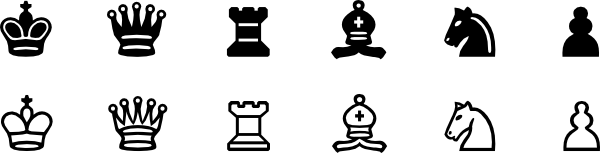
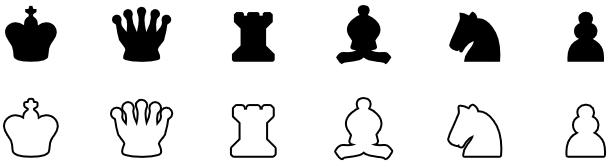
chess is becoming beautiful

diff --git a/src/Board.java b/src/Board.java
@@ -8,7 +8,7 @@ import javax.swing.JOptionPane;
 
 public class Board 
 {	
-	BufferedImage boardImage;
+	static BufferedImage boardImage;
 	Piece[][] board;
 	Play boardPlay;
 	int[] reflectNumbers = {0,1,2,3,4,5,6,7};
@@ -353,6 +353,7 @@ public class Board
 		}		
 		initializeMoves(true);
 		initializeMoves(false);
+		initializeImages();
 	}
 	
 	public void initializeImages()
@@ -574,21 +575,9 @@ public class Board
 
 				if(!isEmpty(x,y))
 				{
-					if((board[x][y].isWhite())&&((!dragging)||(x1!=x)||(y1!=y)))
-
-					{
-						g.setColor(Color.WHITE);
-						g.fillOval(xSpacing+tileSize*1/4-(tileSize*1/8), ySpacing+tileSize*1/4-(tileSize*1/8), tileSize*3/4, tileSize*3/4);
-						g.setColor(Color.BLACK);
-					}
-					else if((!board[x][y].isWhite())&&((!dragging)||(x1!=x)||(y1!=y)))
-					{
-						g.setColor(Color.BLACK);
-						g.fillOval(xSpacing+tileSize*1/4-(tileSize*1/8), ySpacing+tileSize*1/4-(tileSize*1/8), tileSize*3/4, tileSize*3/4);
-						g.setColor(Color.WHITE);
-					}
+				
 					 ((Graphics2D) g).drawImage(board[x][y].getImage(), xSpacing, ySpacing, boardPlay);
-					g.drawString(""+board[x][y].getPieceType().charAt(0), xSpacing+tileSize/2, ySpacing+tileSize/2);
+//					g.drawString(""+board[x][y].getPieceType().charAt(0), xSpacing+tileSize/2, ySpacing+tileSize/2);
 				}
 
 				//				else if(isEmpty(x,y))
@@ -644,13 +633,13 @@ public class Board
 		if(checkmate())
 		{
 			g.setColor(new Color(255, 0, 0,125));
-			g.fillRect(0, 0, (tileSize+1)*8, (tileSize+1)*8);
+			g.fillRect(0, 0, (getTileSize()+1)*8 + getBoarder()*2,(getTileSize()+1)*8+22+getBoarder()*2);
 		}
 		
 		else if (inCheck(false) || inCheck(true))
 		{
 			g.setColor(new Color(255, 0, 0,50));
-			g.fillRect(0, 0, (tileSize+1)*8, (tileSize+1)*8);
+			g.fillRect(0, 0, (getTileSize()+1)*8 + getBoarder()*2,(getTileSize()+1)*8+22+getBoarder()*2);
 		}
 		}
 		

diff --git a/src/Piece.java b/src/Piece.java
@@ -14,6 +14,8 @@ public class Piece
 	String pieceType;
 	int xCord;
 	int yCord;
+	int xSpacing = 56;
+	int ySpacing = 4;
 	boolean[][] canMove = new boolean[8][8];
 	boolean isKing = false;
 	boolean isPawn = false;
@@ -61,7 +63,10 @@ public class Piece
 	
 	public void setImage()
 	{
+		pieceImage = Board.boardImage;
 		
+		if(white)
+			ySpacing = 92;
 	}
 
 	public BufferedImage getImage()

diff --git a/src/QueenPiece.java b/src/QueenPiece.java
@@ -16,7 +16,9 @@ public class QueenPiece extends Piece{
 	
 	public void setImage()
 	{
-		pieceImage = pieceImage.getSubimage(0, 0, 70, 70);
+		super.setImage();
+		
+		pieceImage = pieceImage.getSubimage(xSpacing*2, ySpacing, 70, 70);
 	}
 	
 }

diff --git a/src/PawnPiece.java b/src/PawnPiece.java
@@ -41,7 +41,8 @@ public class PawnPiece extends Piece
 	
 	public void setImage()
 	{
-		pieceImage = pieceImage.getSubimage(0, 0, 70, 70);
+		super.setImage();
+		pieceImage = pieceImage.getSubimage(xSpacing*10-20, ySpacing, 70, 70);
 	}
 	
 }

diff --git a/src/KnightPiece.java b/src/KnightPiece.java
@@ -48,7 +48,8 @@ public class KnightPiece extends Piece{
 	
 	public void setImage()
 	{
-		pieceImage = pieceImage.getSubimage(0, 0, 70, 70);
+		super.setImage();
+		pieceImage = pieceImage.getSubimage(xSpacing*8, ySpacing, 70, 70);
 	}
 	
 }

diff --git a/src/BishopPiece.java b/src/BishopPiece.java
@@ -17,7 +17,8 @@ public class BishopPiece extends Piece
 	
 	public void setImage()
 	{
-		pieceImage = pieceImage.getSubimage(0, 0, 70, 70);
+		super.setImage();
+		pieceImage = pieceImage.getSubimage(xSpacing*6, ySpacing, 70, 70);
 	}
 	
 }

diff --git a/src/RookPiece.java b/src/RookPiece.java
@@ -16,7 +16,8 @@ public class RookPiece extends Piece
 	
 	public void setImage()
 	{
-		pieceImage = pieceImage.getSubimage(0, 0, 70, 70);
+		super.setImage();
+		pieceImage = pieceImage.getSubimage(xSpacing*4, ySpacing, 70, 70);
 	}
 	
 }

diff --git a/src/KingPiece.java b/src/KingPiece.java
@@ -62,7 +62,8 @@ public class KingPiece extends Piece{
 	
 	public void setImage()
 	{
-		pieceImage = pieceImage.getSubimage(0, 0, 70, 70);
+		super.setImage();
+		pieceImage = pieceImage.getSubimage(0, ySpacing, 70, 70);
 	}
 
 }
